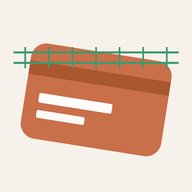
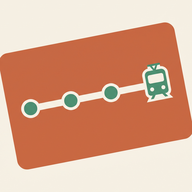
休日パターンの土曜出勤オプションと経由駅指定を追加
- 休日「土曜出勤」を なし/第2・4週/第1・3・5週/毎週 から選択できるように
- 経由駅(乗換駅)の指定を追加。乗換駅が複数ありうる区間で構成を固定できる
  (例: 西鉄→地下鉄を天神で乗り換えるか薬院か)
- アプリアイコンを路線図モチーフ(定期券+駅ドット+電車)に刷新
- SW キャッシュを v2 に

diff --git a/js/app.js b/js/app.js
@@ -15,7 +15,7 @@ const el = (tag, cls, txt) => { const e = document.createElement(tag); if (cls) 
  * ------------------------------------------------------------------------- */
 const now = new Date();
 let state = {
-  from: '', to: '', structIdx: 0,
+  from: '', to: '', via: '', structIdx: 0,
   fares: {},                       // "A|B" -> {m1,m3,m6,ic}
   holiday: {
     preset: 'weekday_holiday',
@@ -42,7 +42,7 @@ function save() {
 /* ---------------------------------------------------------------------------
  * 駅・路線グラフ
  * ------------------------------------------------------------------------- */
-const SEP = '';
+const SEP = '|';
 const nodeId = (line, st) => line + SEP + st;
 const parseNode = id => { const i = id.indexOf(SEP); return { line: id.slice(0, i), st: id.slice(i + 1) }; };
 
@@ -143,7 +143,11 @@ function findRoute(from, to) {
       clean[clean.length - 1].to = s.to; clean[clean.length - 1].stops += s.stops;
     } else clean.push(s);
   }
-  // 事業者セグメント（定期の単位）
+  return { path, segs: clean, xfers, opSegs: buildOpSegs(clean), cost: best };
+}
+
+// clean セグメント列 → 事業者セグメント（定期の単位）
+function buildOpSegs(clean) {
   let opSegs = [];
   for (const s of clean) {
     const prev = opSegs[opSegs.length - 1];
@@ -157,7 +161,43 @@ function findRoute(from, to) {
       opSegs[opSegs.length - 2]._exit = opSegs[opSegs.length - 1].to; opSegs.pop();
     }
   }
-  return { path, segs: clean, xfers, opSegs, cost: best };
+  return opSegs;
+}
+
+// 経由駅（乗換駅）を指定できるルート探索。via 未指定なら通常の findRoute。
+function routeWithVia(from, to, via) {
+  if (!via || via === from || via === to) return findRoute(from, to);
+  const r1 = findRoute(from, via), r2 = findRoute(via, to);
+  if (!r1 || !r2) return findRoute(from, to);
+  const segs = r1.segs.concat(r2.segs.map(s => Object.assign({}, s)));
+  const xfers = r1.xfers.slice();
+  const lastL = r1.segs[r1.segs.length - 1], firstL = r2.segs[0];
+  if (lastL && firstL && lastL.line !== firstL.line) {
+    const tk = transferKind(lastL.to, firstL.from) || { kind: 'transfer', note: '指定経由' };
+    xfers.push({ at: lastL.to, to: firstL.from, fromLine: lastL.line, toLine: firstL.line,
+      kind: tk.kind, note: tk.note || '指定経由' });
+  }
+  xfers.push(...r2.xfers);
+  // segs をライン単位で再結合
+  const clean = [];
+  for (const s of segs) {
+    if (clean.length && s.line === clean[clean.length - 1].line) {
+      clean[clean.length - 1].to = s.to; clean[clean.length - 1].stops += s.stops;
+    } else clean.push(Object.assign({}, s));
+  }
+  const opSegs = buildOpSegs(clean);
+  // via が実際に区間の境界（乗換／端）になっていなければ指定は無効 → 通常経路にフォールバック
+  const boundaries = new Set();
+  opSegs.forEach(s => { boundaries.add(s.from); boundaries.add(s.to); });
+  xfers.forEach(x => { boundaries.add(x.at); boundaries.add(x.to); });
+  if (!boundaries.has(via)) return findRoute(from, to);
+  return { path: r1.path.concat(r2.path), segs: clean, xfers, opSegs, cost: r1.cost + r2.cost, via };
+}
+
+// 現在の状態からルートを得る
+function currentRoute() {
+  if (!state.from || !state.to || state.from === state.to) return null;
+  return routeWithVia(state.from, state.to, state.via);
 }
 
 /* ---------------------------------------------------------------------------
@@ -290,9 +330,11 @@ function workingDays(y, m, cfg, exSet) {
     const date = new Date(y, m - 1, d);
     const dow = date.getDay();
     let rest = cfg.restDows.includes(dow);
-    if (rest && dow === 6 && cfg.altSat === 2) {
+    if (rest && dow === 6 && cfg.altSat) {
       const nthSat = Math.ceil(d / 7);
-      if (nthSat % 2 === 1) rest = false;          // 第1・3・5土曜は出勤
+      if (cfg.altSat === 2 && nthSat % 2 === 1) rest = false;   // 第1・3・5週の土曜は出勤
+      else if (cfg.altSat === 1 && nthSat % 2 === 0) rest = false; // 第2・4週の土曜は出勤
+      else if (cfg.altSat === 3) rest = false;                  // 毎週土曜出勤
     }
     if (rest) continue;
     const key = ymd(y, m, d);
@@ -442,8 +484,8 @@ function refundEstimate(r, fare) {
 const $ = sel => document.querySelector(sel);
 const $$ = sel => Array.from(document.querySelectorAll(sel));
 
-function fillStationSelect(sel, val) {
-  sel.innerHTML = '<option value="">駅を選択</option>';
+function fillStationSelect(sel, val, placeholder) {
+  sel.innerHTML = `<option value="">${placeholder || '駅を選択'}</option>`;
   for (const [lid, L] of Object.entries(LINES)) {
     const og = el('optgroup'); og.label = L.name;
     for (const s of L.st) {
@@ -469,8 +511,12 @@ function renderRouteTab() {
   box.innerHTML = '';
   if (!state.from || !state.to) { box.appendChild(el('p', 'muted', '出発駅と到着駅を選んでください。')); return; }
   if (state.from === state.to) { box.appendChild(el('p', 'muted', '出発駅と到着駅が同じです。')); return; }
-  const route = findRoute(state.from, state.to);
+  const route = currentRoute();
   if (!route) { box.appendChild(el('p', 'warn', '経路が見つかりませんでした（対応駅は主要駅のみ）。運賃タブで手入力もできます。')); return; }
+  if (state.via && route.via)
+    box.appendChild(el('p', 'muted small', `経由指定：${state.via}（乗換駅を固定して計算中）`));
+  else if (state.via && !route.via)
+    box.appendChild(el('p', 'warn', `経由駅「${state.via}」を通る経路が見つからず、通常の最短経路で計算しています。`));
 
   // 経路の可視化
   const rl = el('div', 'routeline');
@@ -529,7 +575,7 @@ function renderRouteTab() {
 /* ---- 運賃タブ ---- */
 function renderFareTab() {
   const box = $('#fareForm'); box.innerHTML = '';
-  const route = state.from && state.to && state.from !== state.to ? findRoute(state.from, state.to) : null;
+  const route = currentRoute();
   if (!route) { box.appendChild(el('p', 'muted', '先に「経路」タブで出発駅・到着駅を選んでください。')); return; }
   const structs = passStructures(route);
 
@@ -655,10 +701,15 @@ function renderHolidayTab() {
     box.appendChild(chk('祝日は休み', 'useHolidays'));
     box.appendChild(chk('年末年始（12/29〜1/3）は休み', 'useYearEnd'));
 
-    const altW = el('label', 'checkrow');
-    const ac = el('input'); ac.type = 'checkbox'; ac.checked = h.altSat === 2;
-    ac.onchange = () => { h.altSat = ac.checked ? 2 : 0; save(); recomputeIfResult(); };
-    altW.appendChild(ac); altW.appendChild(el('span', null, '第1・3・5週の土曜は出勤（隔週土曜出勤）'));
+    const altW = el('div', 'field');
+    altW.appendChild(el('label', 'flabel', '土曜出勤'));
+    const as = el('select');
+    [[0, 'なし（土曜は休み）'], [1, '第2・4週の土曜は出勤'], [2, '第1・3・5週の土曜は出勤'], [3, '毎週土曜出勤']]
+      .forEach(([v, l]) => { const o = el('option', null, l); o.value = v; as.appendChild(o); });
+    as.value = h.altSat || 0;
+    as.disabled = !preset.custom && h.preset !== 'sat_alt';
+    as.onchange = () => { h.altSat = +as.value; save(); recomputeIfResult(); };
+    altW.appendChild(as);
     box.appendChild(altW);
 
     if (preset.custom) {
@@ -721,7 +772,7 @@ function recompute() {
   if (!state.from || !state.to || state.from === state.to) {
     box.appendChild(el('p', 'muted', '「経路」タブで出発駅・到着駅を選んでください。')); return;
   }
-  const route = findRoute(state.from, state.to);
+  const route = currentRoute();
   if (!route) { box.appendChild(el('p', 'warn', '経路が見つかりません。')); return; }
   const structs = passStructures(route).map(resolveStructure);
   if (state.structIdx >= structs.length) state.structIdx = 0;
@@ -930,8 +981,10 @@ function init() {
   load();
   fillStationSelect($('#fromSel'), state.from);
   fillStationSelect($('#toSel'), state.to);
+  fillStationSelect($('#viaSel'), state.via, '（指定なし）');
   $('#fromSel').onchange = e => { state.from = e.target.value; state.structIdx = 0; save(); renderRouteTab(); };
   $('#toSel').onchange = e => { state.to = e.target.value; state.structIdx = 0; save(); renderRouteTab(); };
+  $('#viaSel').onchange = e => { state.via = e.target.value; state.structIdx = 0; save(); renderRouteTab(); };
   $('#swapBtn').onclick = () => {
     [state.from, state.to] = [state.to, state.from];
     $('#fromSel').value = state.from; $('#toSel').value = state.to;

diff --git a/js/data.js b/js/data.js
@@ -237,8 +237,8 @@ const HOLIDAY_PRESETS = {
     restDows: [0, 6], useHolidays: false, useYearEnd: true, altSat: 0,
   },
   sat_alt: {
-    label: '週休2日（隔週で土曜出勤）＋祝日',
-    restDows: [0, 6], useHolidays: true, useYearEnd: true, altSat: 2, // 第2・第4以外の土曜は出勤扱い
+    label: '土曜出勤あり（第○週のみ）＋祝日',
+    restDows: [0, 6], useHolidays: true, useYearEnd: true, altSat: 1, // 既定＝第2・4週の土曜出勤（下で変更可）
   },
   weekend_only: {
     label: '土日のみ休み（祝日出勤・年末年始なし）',

diff --git a/css/styles.css b/css/styles.css
@@ -55,6 +55,11 @@ main{max-width:760px; margin:0 auto; padding:6px 12px 40px}
   flex:0 0 auto; width:40px; height:40px; border-radius:12px; border:1px solid var(--line);
   background:#fff; font-size:1.1rem; cursor:pointer; margin-bottom:2px;
 }
+.viafield{margin-top:10px}
+.viafield select{
+  font:inherit; font-size:1rem; padding:9px 10px; border:1px solid var(--line);
+  border-radius:12px; background:#fff; color:var(--ink); width:100%;
+}
 
 .routeline{display:flex; flex-direction:column; gap:6px; margin-bottom:12px}
 .segchip{

diff --git a/index.html b/index.html
@@ -38,6 +38,9 @@
           <select id="toSel"></select>
         </label>
       </div>
+      <label class="odfield viafield"><span>経由駅（乗換駅の指定・任意）</span>
+        <select id="viaSel"></select>
+      </label>
     </div>
     <div id="routeResult" class="card"></div>
     <p class="note">対応駅は福岡市内＋通勤圏の主要駅です。無い駅は「運賃」タブで区間を手入力できます。</p>

diff --git a/sw.js b/sw.js
@@ -1,5 +1,5 @@
 /* オフラインキャッシュ（アプリ本体一式）。 */
-const CACHE = 'commupass-fukuoka-v1';
+const CACHE = 'commupass-fukuoka-v2';
 const ASSETS = [
   './',
   './index.html',

diff --git a/README.md b/README.md
@@ -6,13 +6,15 @@
 
 1. **定期券の構成** — 出発駅・到着駅を選ぶと経路と乗換駅を判定し、
    単独定期／連絡定期（1枚化）／分割定期などの買い方候補を総額の安い順に提示。
+   乗換駅が複数ありうる場合は **経由駅** を指定して構成を固定できる（例：西鉄→地下鉄を天神で乗り換えるか薬院か）。
    - 地下鉄⇔JR筑肥線（姪浜直通）、地下鉄⇔JR鹿児島本線（博多）、
      天神大牟田線⇔地下鉄（天神・薬院）、貝塚線⇔地下鉄（貝塚）の連絡定期に対応。
    - 3社（西鉄〜地下鉄〜JR/貝塚線）通しの連絡定期は発売されないため分割になる旨も表示。
 2. **月ごとの損得** — その月の出勤日数から「1ヶ月定期 vs IC都度払い」の損益分岐を月別に表示。
    連休の多い月・長期休暇のある月は 1ヶ月定期が割高になることが分かる。
-3. **会社の休日設定** — 完全週休2日＋祝日／土日のみ／日曜のみ／隔週土曜出勤／シフト制／
-   カスタム（休む曜日＋会社の年間休業日）に対応。有給・在宅・出張・夏季休暇なども差し引ける。
+3. **会社の休日設定** — 完全週休2日＋祝日／土日のみ／日曜のみ／土曜出勤あり／シフト制／
+   カスタム（休む曜日＋会社の年間休業日）に対応。土曜出勤は「第2・4週」「第1・3・5週」「毎週」から選択。
+   有給・在宅・出張・夏季休暇なども差し引ける。
 4. **6ヶ月／3ヶ月／1ヶ月／ハイブリッド／IC の総額比較** — 対象期間（6〜24ヶ月）の総コストを比較。
 5. **途中下車などのイレギュラー** — 定期区間外の駅にたまに寄る場合の
    「乗り越し精算 vs 定期延長 vs 1日券」を比較し、何回以上で延長が得かの閾値を提示。
